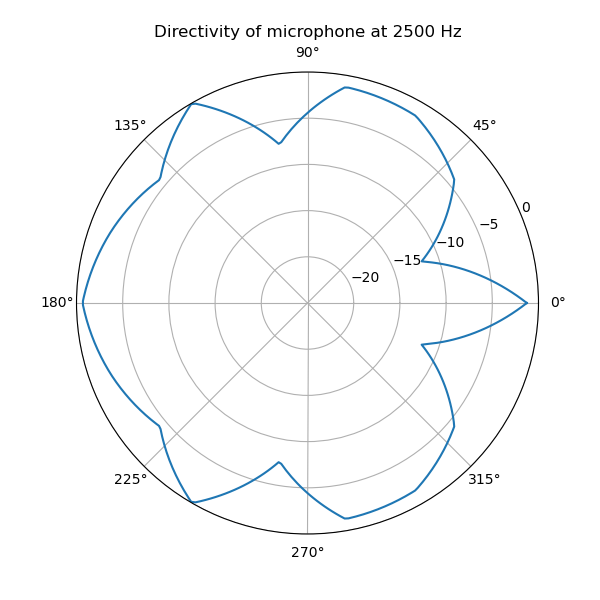
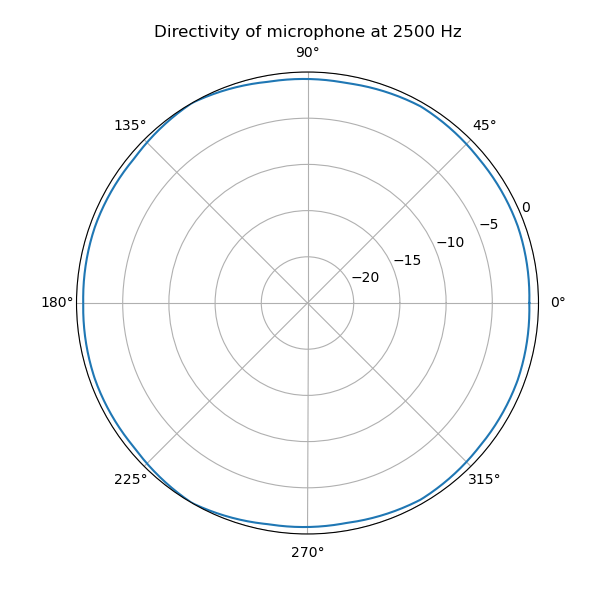
Directivities

diff --git a/Jetson/directivies/Directivity_calc.py b/Jetson/directivies/Directivity_calc.py
@@ -41,8 +41,10 @@ def play(freq):
     signal_fft = fft(sine_signal[16000:], axis=0)/len(sine_signal[16000:]) # Divide by the length to compensate the decay on amplitude on the calc of FFT.
     recorded = record(sine_signal,fs,[2],[2])
     recorded_fft = fft(recorded[16000:], axis=0)/len(recorded[16000:])
-    gain = np.abs(recorded_fft[duration*freq]) / np.abs(signal_fft[duration*freq])
-    #plt.plot(20*np.log10(2*np.abs(signal_fft)))
+    gain = np.max(np.abs(recorded_fft)) / np.abs(signal_fft[duration*freq])
+    print("Amplitude emitted signal: ",np.abs(signal_fft[duration*freq]))
+    print("Amplitude recorded signal: ",np.abs(recorded_fft[duration*freq])," Max point of the fft: ",np.max(np.abs(recorded_fft))," Freq: ", np.argmax(np.abs(recorded_fft))/duration)
+    #plt.plot(20*np.log10(2*np.abs(recorded_fft)))
     #plt.show()
     return gain
     
@@ -73,7 +75,7 @@ def main():
           angles.append(image_angle)
           gain.append(gain[index])
 
-    gain = 10*np.log10(gain) # Normalize and calc gain in dB
+    gain = 10*np.log10(gain/np.max(gain)) # Normalize and calc gain in dB
 
     # Sort values before plotting and saving
     sorted_indices = np.argsort(angles)
